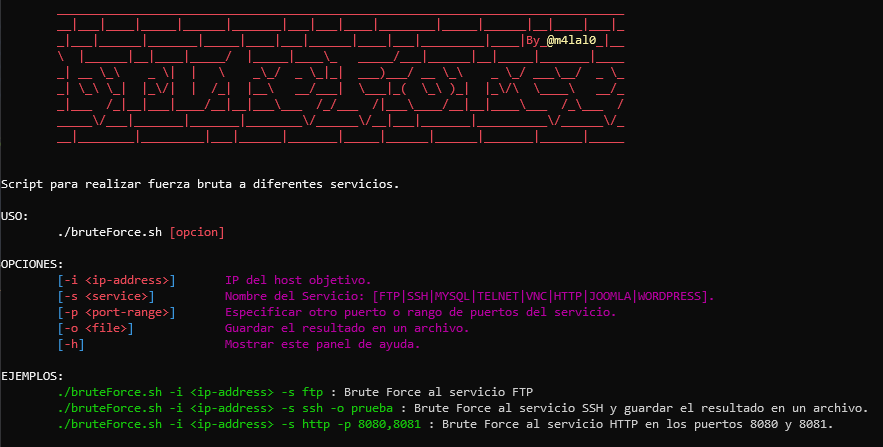
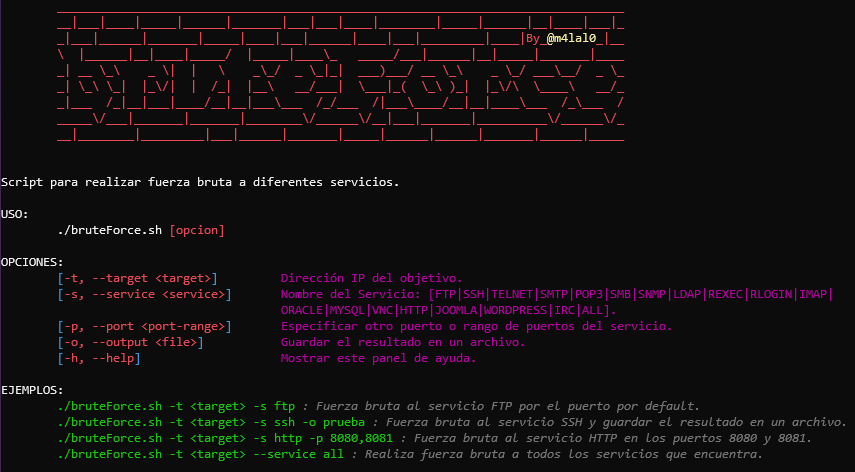
feat: update README

diff --git a/README.md b/README.md
@@ -30,11 +30,6 @@ cd bruteForce; chmod +x bruteForce.sh
 
 Al ejecutarlo nos mostrará un panel de ayuda:
 
-<p align="center">
-<img src="https://github.com/m4lal0/bruteForce/blob/main/images/helpPanel.png"
-	alt="helpPanel"
-	width="1000"
-	style="float: left; margin-right: 10px;" />
-</p>
+![HelpPanel](./images/helpPanel2.png)
 
-Ya con estos parámetros definidos, en función del servicio seleccionado... se despleglará todo lo necesario de forma automática.
+Con los parámetros definidos, en función del servicio seleccionado... se despleglará todo lo necesario de forma automática.
